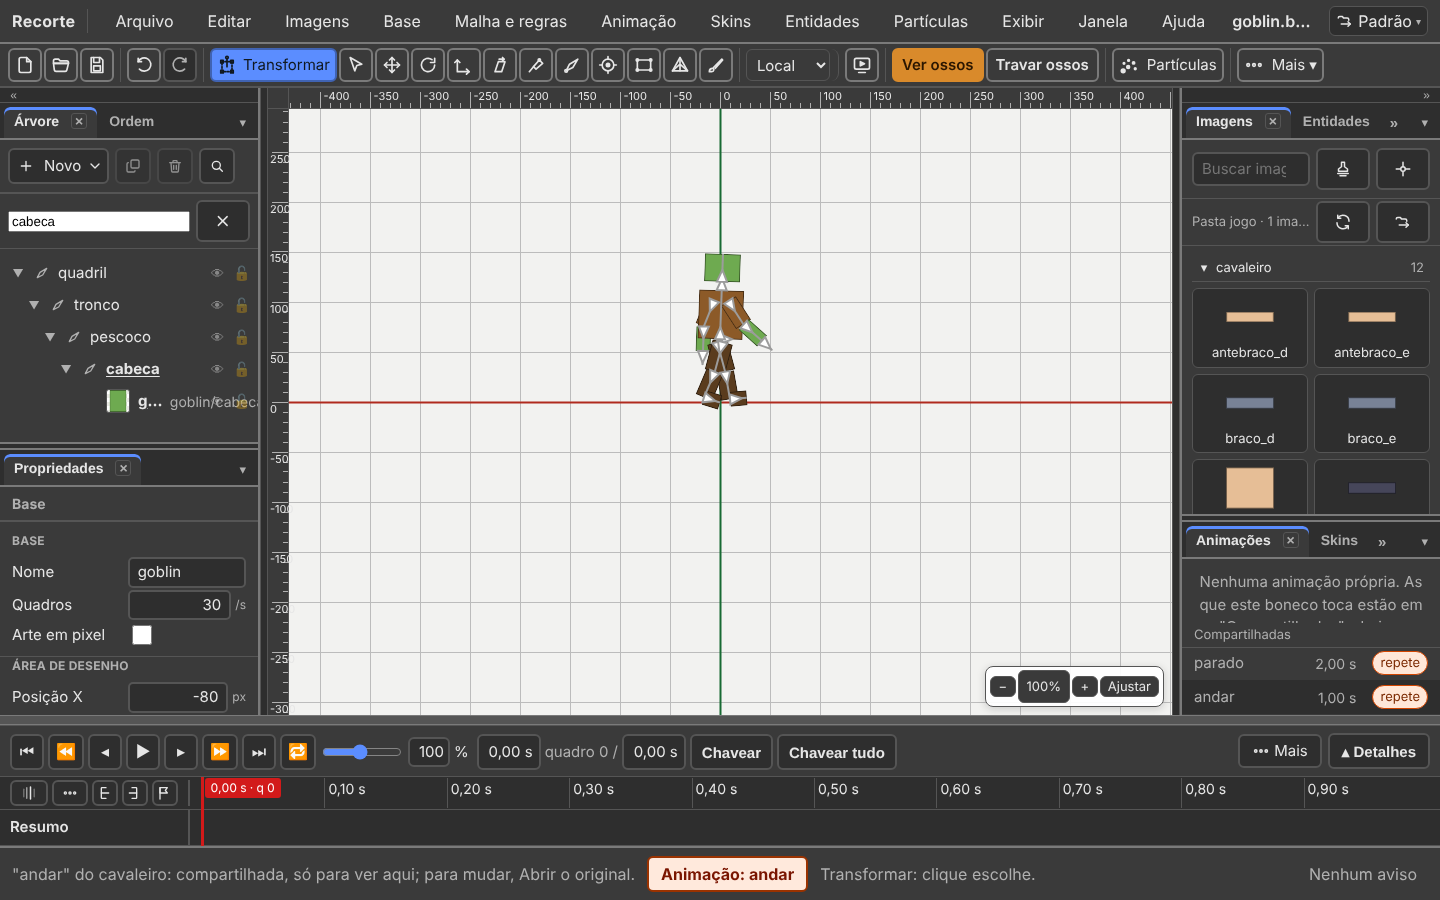
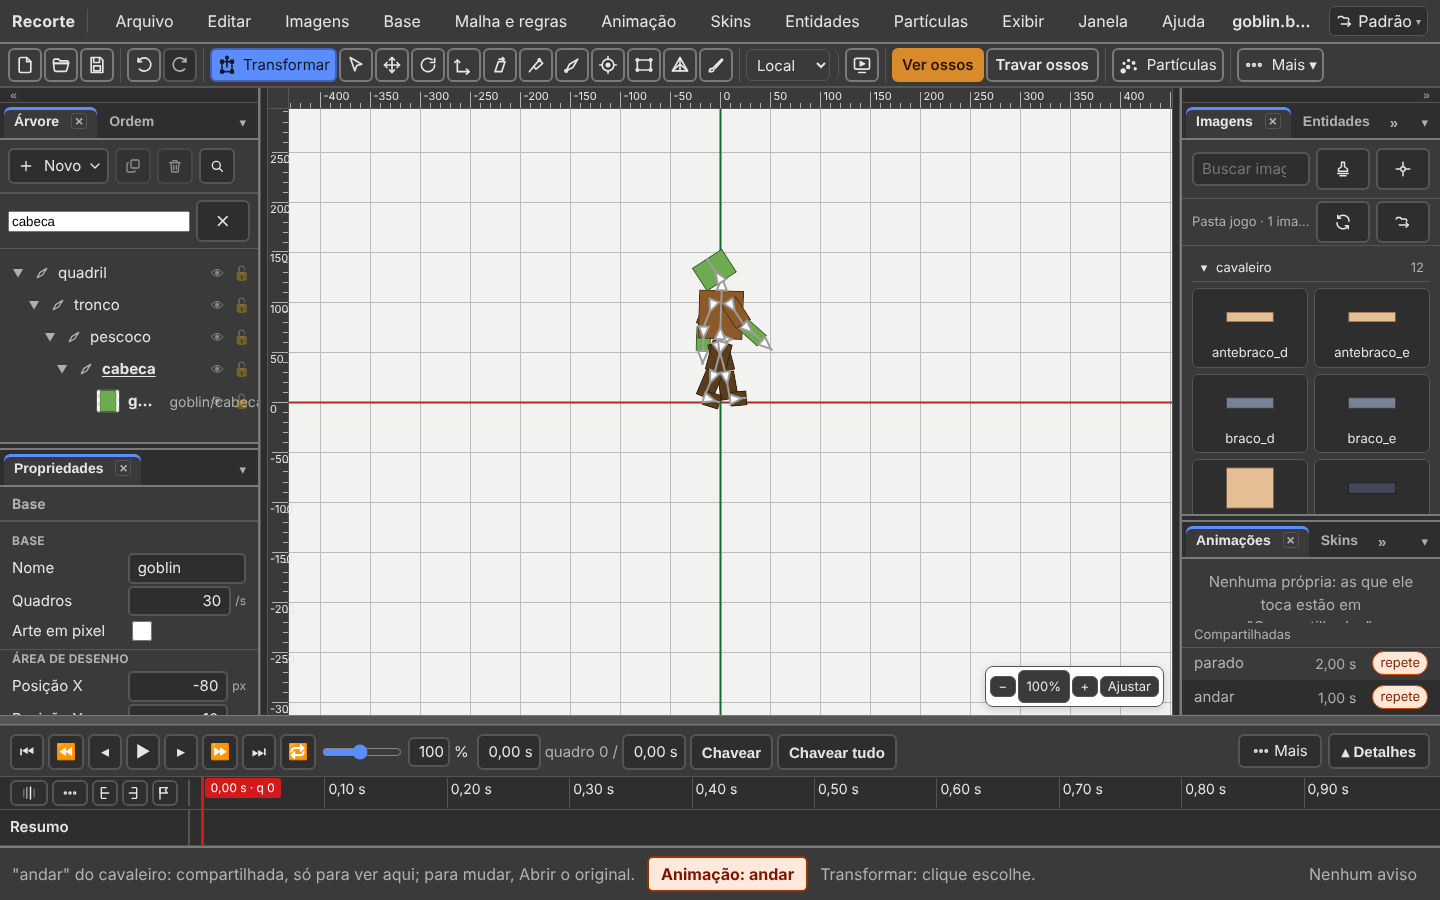
reaproveitar: a frase da lista vazia cabe na coluna; a foto do goblin depois do conserto
Claude-Session: https://claude.ai/code/session_01ToK6BbHkRJR6siNrn32NnF

diff --git a/editor/src/panels/animations.ts b/editor/src/panels/animations.ts
@@ -633,7 +633,7 @@ class AnimationsPanel implements Panel {
     if (rows.length === 0) {
       // Reaproveitar: com compartilhadas, "nenhuma animação" era mentira (regra 21).
       list.append(el('li', 'painel-aviso', listShared(doc.file).length > 0
-        ? 'Nenhuma própria: as que ele toca estão em "Compartilhadas".'
+        ? 'Só compartilhadas, abaixo.'
         : 'Nenhuma animação ainda. Clique no + ao lado de "Animações".'));
     }
     // A que está aberta, para rolar a lista até ela no fim do desenho. Antes
